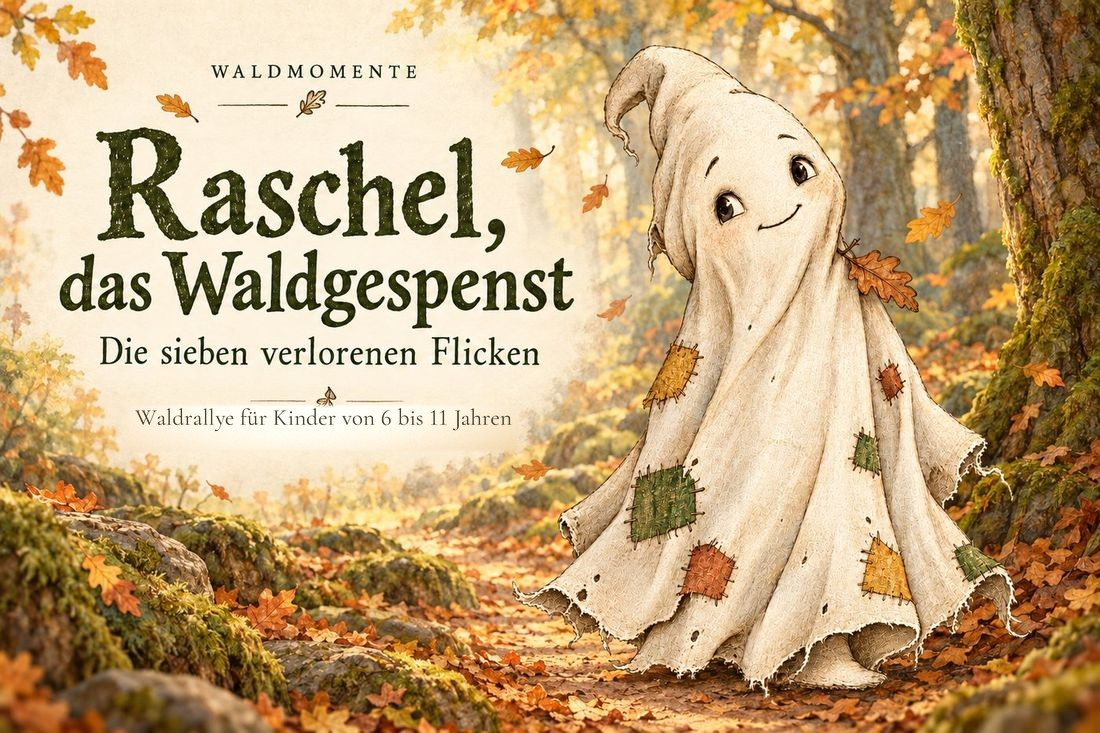
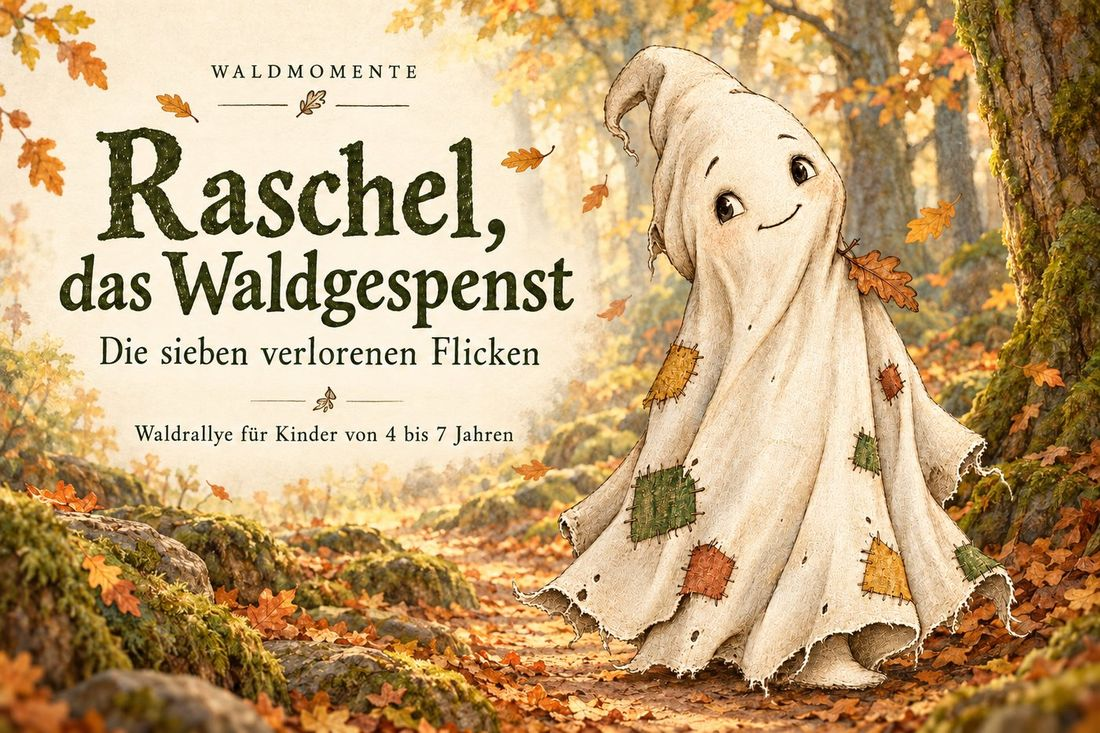
Zurueck auf 4 bis 7 Jahre
Die Altersangabe war in den gelieferten Unterlagen widerspruechlich:
Titelbild und Spiel sagten 4 bis 7, die neuen Payhip-Texte und die
neue Verkaufsseite sagten 6 bis 11. Ich hatte mich fuer 6 bis 11
entschieden. Falsch, es gilt 4 bis 7.

* Startseite, Verkaufsseite und Spiel wieder auf 4 bis 7, an allen
  dreizehn Stellen.
* Die Frage in den FAQ heisst wieder "mit vier Jahren mitspielen".
* Das Titelbild kommt unveraendert aus der Versionsgeschichte zurueck.
  Meine uebermalte Zeile ist weg, die eingebrannte Originalzeile
  steht wieder da.

Claude-Session: https://claude.ai/code/session_01XGjtieJKCJujawxkojSyg8

Changed region(s): [[0.1236, 0.5402, 0.4636, 0.6303]]

diff --git a/raschel-m3p/index.html b/raschel-m3p/index.html
@@ -228,7 +228,7 @@
     <button id="parent-close" class="secondary" type="button">Schließen ✕</button>
     <h2>Für eure Erwachsenen</h2>
     <p>
-      Für Kinder von 6 bis 11 Jahren mit erwachsener Begleitung.
+      Für Kinder von 4 bis 7 Jahren mit erwachsener Begleitung.
       Erwachsene übernehmen Lesen, Schreiben und die Handybedienung.
       Die Kinder entdecken. Zeichnen ist freiwillig.
     </p>
@@ -510,7 +510,7 @@
     const PAYHIP_TITLE =
       "Raschel, das Waldgespenst · Die sieben verlorenen Flicken";
     const PAYHIP_SHORT =
-      "Eine schaurig schöne Waldrallye für Kinder von 6 bis 11 Jahren " +
+      "Eine schaurig schöne Waldrallye für Kinder von 4 bis 7 Jahren " +
       "mit erwachsener Begleitung. Sieben Waldaufgaben, ein QR-Code " +
       "und eine gemeinsame Mission.";
     const PAYHIP_DESCRIPTION = `Der Spaziergang beginnt. Und schon kommt die Frage: „Wie weit noch?“
@@ -534,7 +534,7 @@ Spielkarte ausdrucken. Bleistift und geladenes Handy einpacken. Einen sicheren W
 Das Handy spielt Raschels Nachricht ab und prüft eure Lösung. Die Aufgaben erlebt ihr draußen.
 Ihr entscheidet selbst, an welchen passenden Stellen ihr stehen bleibt und weiterspielt. Vorher müsst ihr im Wald nichts verstecken oder an Bäume hängen.
 FÜR WEN IST DIE RALLYE?
-Für Kinder von 6 bis 11 Jahren mit erwachsener Begleitung.
+Für Kinder von 4 bis 7 Jahren mit erwachsener Begleitung.
 Erwachsene übernehmen Lesen, Schreiben und die Handybedienung. Die Kinder suchen, zeigen und entdecken. Zeichnen bleibt freiwillig.
 Gemeinsam als Familie, mit Freunden oder beim Kindergeburtstag.
 Ein bisschen geheimnisvoll, ein bisschen gruselig. Und mittendrin ein kleines Gespenst, das eure Hilfe braucht.
@@ -706,7 +706,7 @@ Digitales Spielmaterial. Es wird kein gedrucktes Produkt verschickt.`;
           <h1>Die sieben verlorenen Flicken</h1>
           <img class="ghost" src="${media("raschel.jpg")}"
                alt="Raschel, das Waldgespenst">
-          <p>Für Kinder von 6 bis 11 Jahren mit erwachsener Begleitung.</p>
+          <p>Für Kinder von 4 bis 7 Jahren mit erwachsener Begleitung.</p>
           <div class="card">
             <h3>Raschel meldet sich</h3>
             ${audioMarkup("start")}
@@ -878,7 +878,7 @@ Digitales Spielmaterial. Es wird kein gedrucktes Produkt verschickt.`;
             <p class="eyebrow">Dein Spielpaket</p>
             <h1>Raschel und die sieben verlorenen Flicken</h1>
             <p>Eine Waldrallye für Kinder von
-              <strong>6 bis 11 Jahren</strong> mit ihren Erwachsenen.</p>
+              <strong>4 bis 7 Jahren</strong> mit ihren Erwachsenen.</p>
             <a class="button" href="#spiel">Spiel starten →</a>
           </div>
           <img class="ghost" src="${media("raschel.jpg")}"
@@ -1020,7 +1020,7 @@ Digitales Spielmaterial. Es wird kein gedrucktes Produkt verschickt.`;
           <p class="eyebrow">Waldmomente · Raschel, das Waldgespenst</p>
           <h1>So begleitet ihr die Rallye.</h1>
           <h3>Für wen?</h3>
-          <p>Für Kinder von 6 bis 11 Jahren mit erwachsener Begleitung.
+          <p>Für Kinder von 4 bis 7 Jahren mit erwachsener Begleitung.
              Erwachsene übernehmen Lesen, Schreiben und Handybedienung.
              Die Kinder entdecken. Zeichnen ist freiwillig.</p>
           <h3>Vorbereiten</h3>
@@ -1121,11 +1121,11 @@ Digitales Spielmaterial. Es wird kein gedrucktes Produkt verschickt.`;
         <p class="eyebrow">Eine Waldmission für eure Familie</p>
         <h1>Raschel, das Waldgespenst</h1>
         <img class="banner" src="${media("raschel-verkaufsbild.jpg")}"
-             alt="Raschels Waldrallye für Kinder von 6 bis 11 Jahren">
+             alt="Raschels Waldrallye für Kinder von 4 bis 7 Jahren">
         <p>Sieben verlorene Flicken. Ein geheimnisvolles Wort.
            Und Kinder, die den Wald nach Hinweisen absuchen.</p>
         <p>Eine schaurig schöne Waldrallye für Kinder von
-           <strong>6 bis 11 Jahren mit erwachsener Begleitung.</strong></p>
+           <strong>4 bis 7 Jahren mit erwachsener Begleitung.</strong></p>
         <div class="card">
           <h2>Letzte Nacht hat es ordentlich geraschelt.</h2>
           <p>Der Sturm hat Raschels Laken zerrissen.
@@ -1214,7 +1214,7 @@ Digitales Spielmaterial. Es wird kein gedrucktes Produkt verschickt.`;
       app.innerHTML = `
         <p class="eyebrow">Für Lissi</p>
         <h1>Raschel für Payhip</h1>
-        <p>Produkttexte für Kinder von 6 bis 11 Jahren
+        <p>Produkttexte für Kinder von 4 bis 7 Jahren
            mit erwachsener Begleitung.</p>
         <img class="banner" src="${media("raschel-verkaufsbild.jpg")}"
              alt="Raschels Verkaufsbild">

diff --git a/raschel.html b/raschel.html
@@ -1,5 +1,5 @@
 <!doctype html>
-<html lang="de"><head><meta charset="utf-8"><meta name="viewport" content="width=device-width,initial-scale=1"><meta name="robots" content="noindex,nofollow"><title>Raschel, das Waldgespenst | Waldmomente</title><meta name="description" content="Sieben verlorene Flicken, sieben Waldaufgaben und eine gemeinsame Mission. Raschels Waldrallye für Kinder von 6 bis 11 Jahren und ihre Erwachsenen."><meta name="theme-color" content="#243f32">
+<html lang="de"><head><meta charset="utf-8"><meta name="viewport" content="width=device-width,initial-scale=1"><meta name="robots" content="noindex,nofollow"><title>Raschel, das Waldgespenst | Waldmomente</title><meta name="description" content="Sieben verlorene Flicken, sieben Waldaufgaben und eine gemeinsame Mission. Raschels Waldrallye für Kinder von 4 bis 7 Jahren und ihre Erwachsenen."><meta name="theme-color" content="#243f32">
 <link rel="preload" as="image" href="assets/raschel.webp" type="image/webp">
 <link rel="stylesheet" href="assets/raschel.css">
 </head><body>
@@ -10,7 +10,7 @@
 <div><span class="eyebrow">Eine Waldmission für eure Familie</span>
 <h1>Raschel,<br>das <em>Waldgespenst.</em></h1>
 <p class="lead">„Wie weit noch?“ Die Frage kommt meistens nach den ersten Metern. Diesmal wartet am Weg ein Gespenst, dem sieben Flicken fehlen.</p>
-<p>Eine schaurig schöne Waldrallye für Kinder von 6 bis 11 Jahren und ihre Erwachsenen.</p>
+<p>Eine schaurig schöne Waldrallye für Kinder von 4 bis 7 Jahren und ihre Erwachsenen.</p>
 <div class="tagrow"><span class="tag">7 Waldaufgaben</span><span class="tag">1 QR-Code</span><span class="tag">12,90 €</span></div>
 <div class="actions"><a class="button" href="#hoerprobe">Hör Raschels Geschichte <span aria-hidden="true">&nbsp;↗</span></a><a class="button outline" href="#mitnehmen">Die Rallye entdecken</a></div>
 <p class="fine">Für euren Familienausflug, mit Freunden oder zum Kindergeburtstag.</p></div>
@@ -93,7 +93,7 @@
 <summary>Ist das ein Spiel auf dem Handy?</summary>
 <p>Das Handy spielt Raschels Nachrichten ab und prüft die Lösungswörter. Die Kinder schleichen, suchen, zeichnen, fühlen und lauschen im echten Wald. Nach der Nachricht kommt das Handy wieder in die Tasche.</p></details>
 <details>
-<summary>Kann mein Kind schon mit sechs Jahren mitspielen?</summary>
+<summary>Kann mein Kind schon mit vier Jahren mitspielen?</summary>
 <p>Die Rallye ist für gemeinsames Spielen mit Erwachsenen gedacht. Helft bei der Bedienung, beim Lesen und beim Schreiben. Ihr teilt die Aufgaben so auf, dass jedes Kind etwas beitragen kann.</p></details>
 <details>
 <summary>Geht das auch bei Regen?</summary>
@@ -109,7 +109,7 @@
 <div class="wrap"><span>© 2026 Waldmomente · Elisabeth Müller · Alle Rechte vorbehalten</span>
 <div><a href="https://waldmomente.me/impressum.html">Impressum</a><a href="https://waldmomente.me/datenschutz.html">Datenschutz</a></div></div></footer>
 <div class="mobile-bar">
-<div><strong>Raschels Waldrallye</strong><small>6 bis 11 Jahre · 12,90 € · bald erhältlich</small></div><a class="button" href="#hoerprobe">Hörprobe</a></div>
+<div><strong>Raschels Waldrallye</strong><small>4 bis 7 Jahre · 12,90 € · bald erhältlich</small></div><a class="button" href="#hoerprobe">Hörprobe</a></div>
 <dialog class="image-view" aria-label="Bild in großer Ansicht">
 <div class="view-controls"><button type="button" class="view-close">Schließen ✕</button></div><img class="view-image" alt=""></dialog>
 <script src="assets/raschel.js"></script>

diff --git a/index.html b/index.html
@@ -1813,7 +1813,7 @@ a:focus-visible,button:focus-visible{outline:3px solid #c8a96e;outline-offset:4p
  <picture><source srcset="assets/raschel.webp" type="image/webp"><img src="assets/raschel.png" alt="Raschel, das Waldgespenst" class="produkt-cover" loading="lazy"></picture>
  <span class="produkt-badge" style="background:var(--gold);color:var(--dark);">Bald</span>
  <h3 class="produkt-name">Raschel, das<br>Waldgespenst</h3>
- <p class="produkt-desc">Der Sturm hat Raschels Laken zerrissen. Sieben Flicken liegen irgendwo zwischen den Bäumen. Eine Waldrallye für 6 bis 11 Jahre.</p>
+ <p class="produkt-desc">Der Sturm hat Raschels Laken zerrissen. Sieben Flicken liegen irgendwo zwischen den Bäumen. Eine Waldrallye für 4 bis 7 Jahre.</p>
  <div class="produkt-price">12,90 €</div>
  <a href="raschel.html" class="btn btn--green reveal" style="margin-top:.5rem;width:100%;justify-content:center;">
  <span>Ansehen</span>
